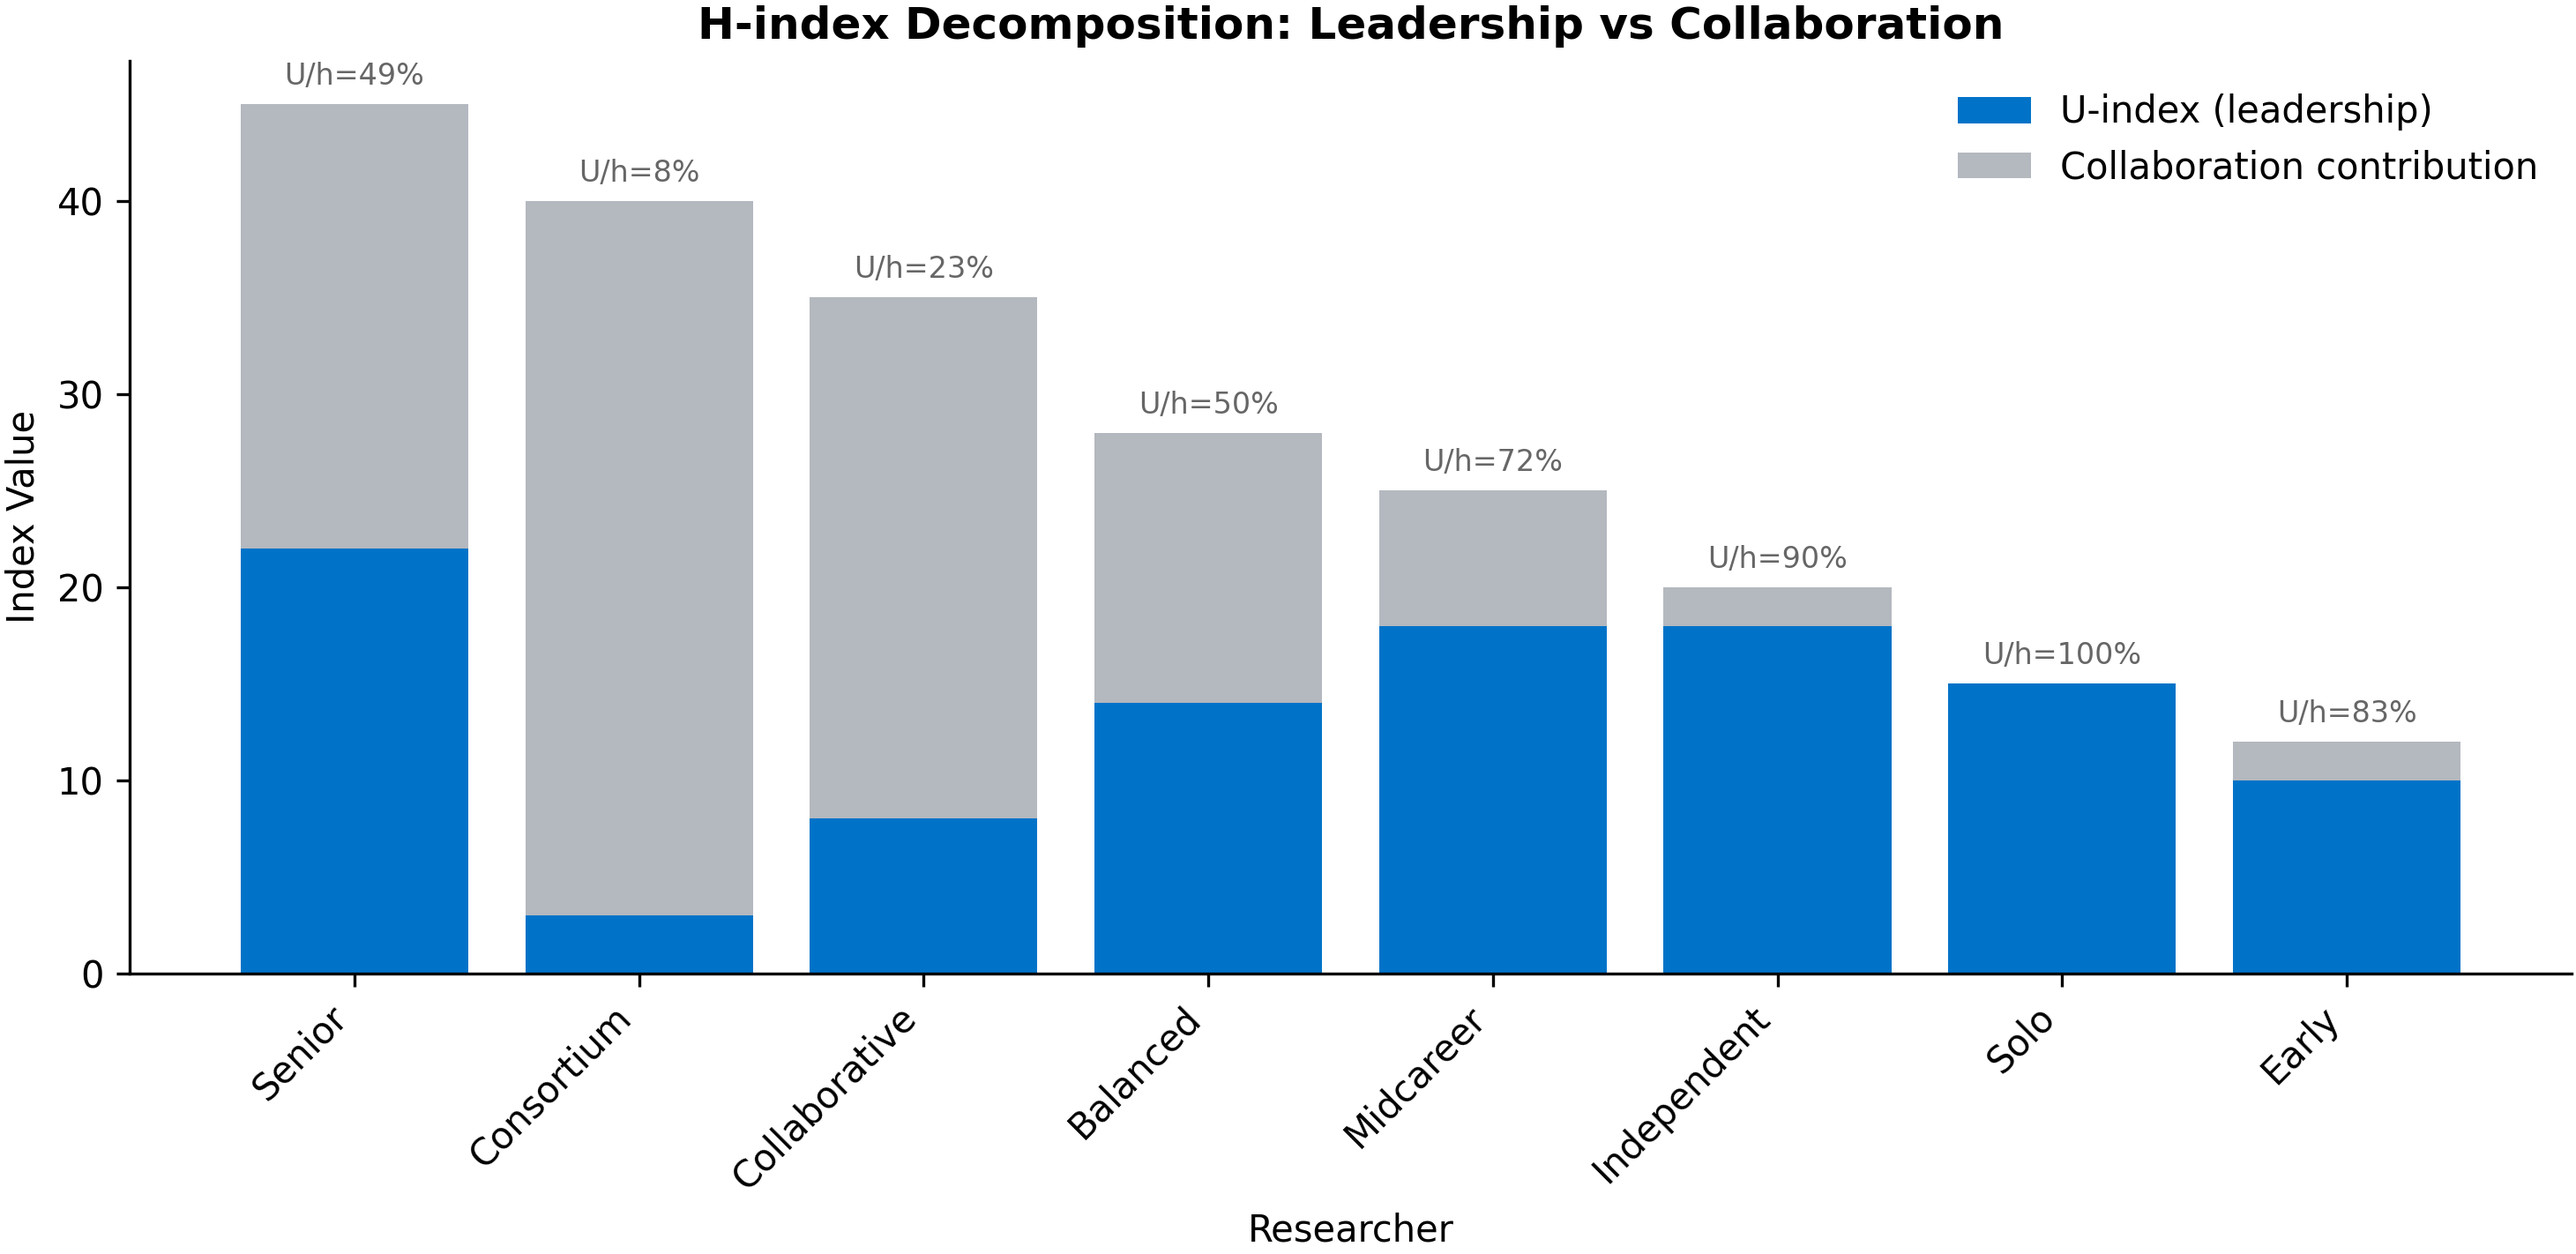
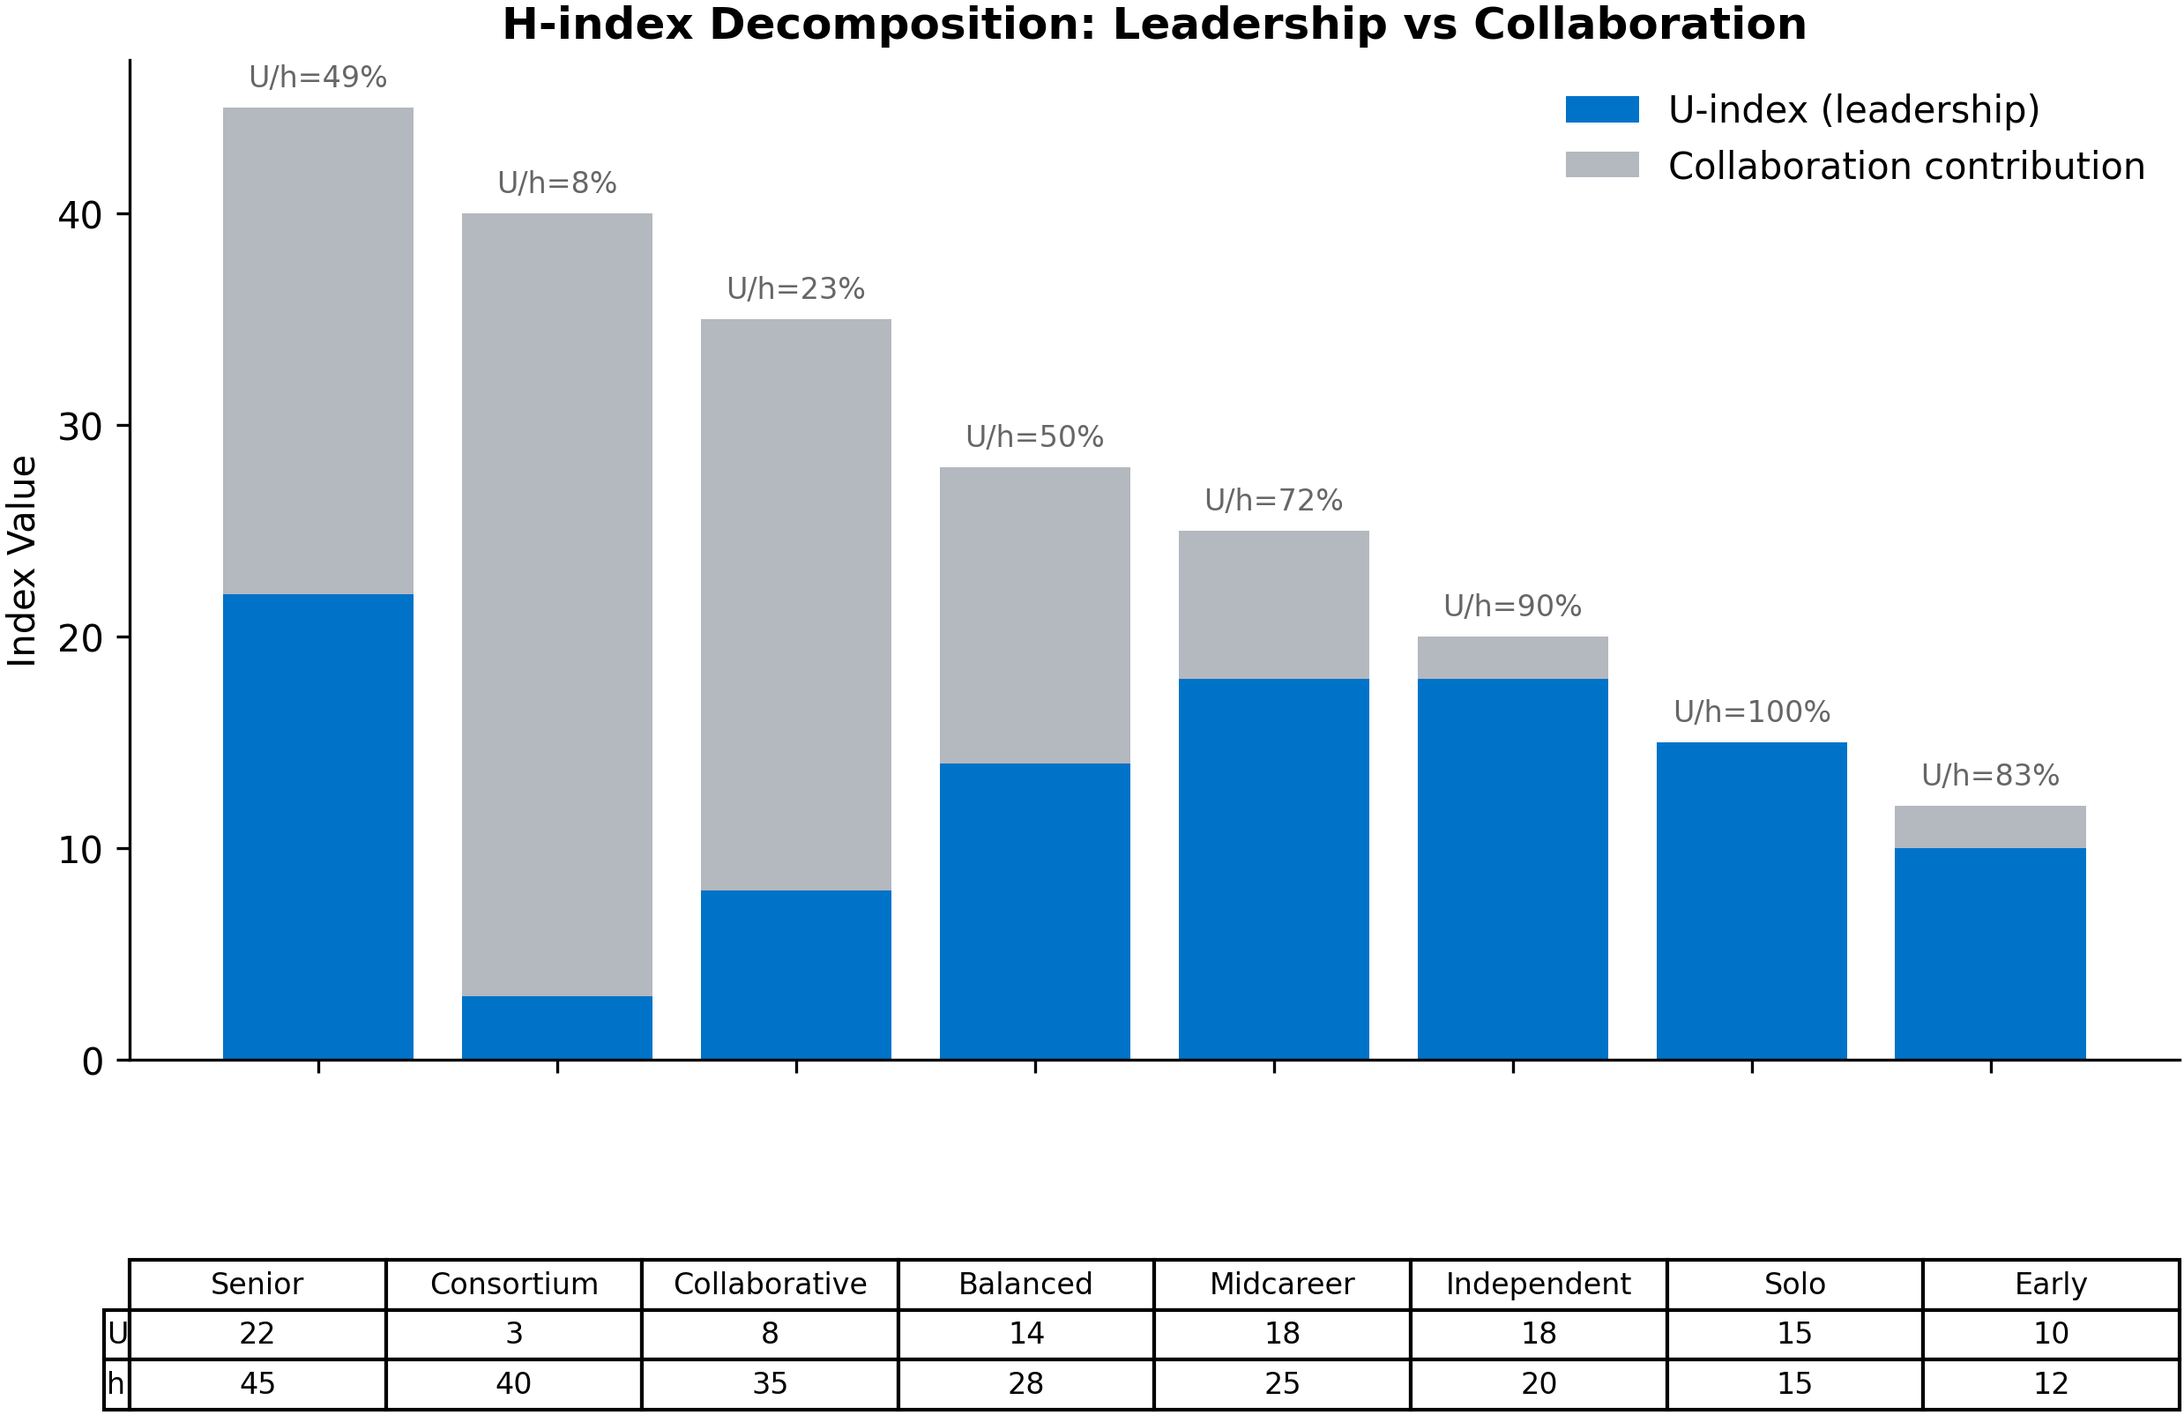
Add U and h value table below stacked bar chart

Changed region(s): [[0.0, 0.0309, 1.0, 1.0], [0.715, 0.0619, 0.9948, 0.1547], [0.2176, 0.0, 0.8393, 0.0309]]

diff --git a/examples/u_index_visualizations.py b/examples/u_index_visualizations.py
@@ -593,7 +593,7 @@ def create_bar_chart_manuscript() -> plt.Figure:
     collab_values = [h - u for h, u in zip(h_values, u_values)]
     ratios = [f"{u/h:.0%}" for h, u in zip(h_values, u_values)]
 
-    fig, ax = plt.subplots(figsize=(10, 5), dpi=300)
+    fig, ax = plt.subplots(figsize=(10, 6), dpi=300)
 
     x = range(len(names))
 
@@ -617,7 +617,28 @@ def create_bar_chart_manuscript() -> plt.Figure:
     ax.spines["top"].set_visible(False)
     ax.spines["right"].set_visible(False)
 
-    plt.tight_layout()
+    # Add table below the chart
+    table_data = [
+        [str(u) for u in u_values],
+        [str(h) for h in h_values],
+    ]
+    row_labels = ["U", "h"]
+    table = ax.table(
+        cellText=table_data,
+        rowLabels=row_labels,
+        colLabels=names,
+        loc="bottom",
+        cellLoc="center",
+        bbox=[0.0, -0.35, 1.0, 0.15],
+    )
+    table.auto_set_font_size(False)
+    table.set_fontsize(8)
+
+    # Remove x-axis labels since table has column headers
+    ax.set_xticklabels([])
+    ax.set_xlabel("")
+
+    plt.subplots_adjust(bottom=0.25)
     return fig
 
 
